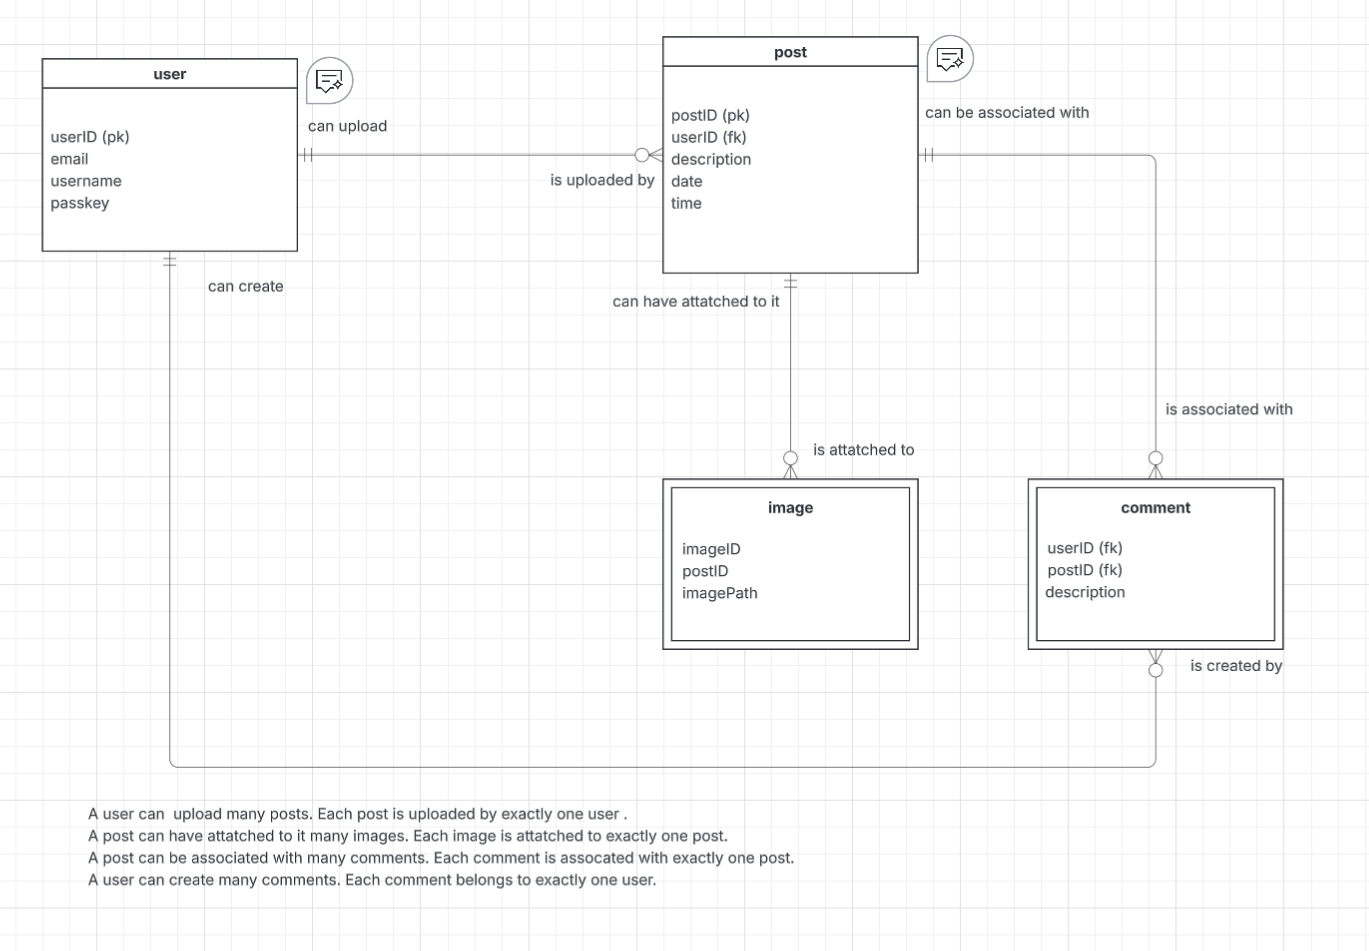
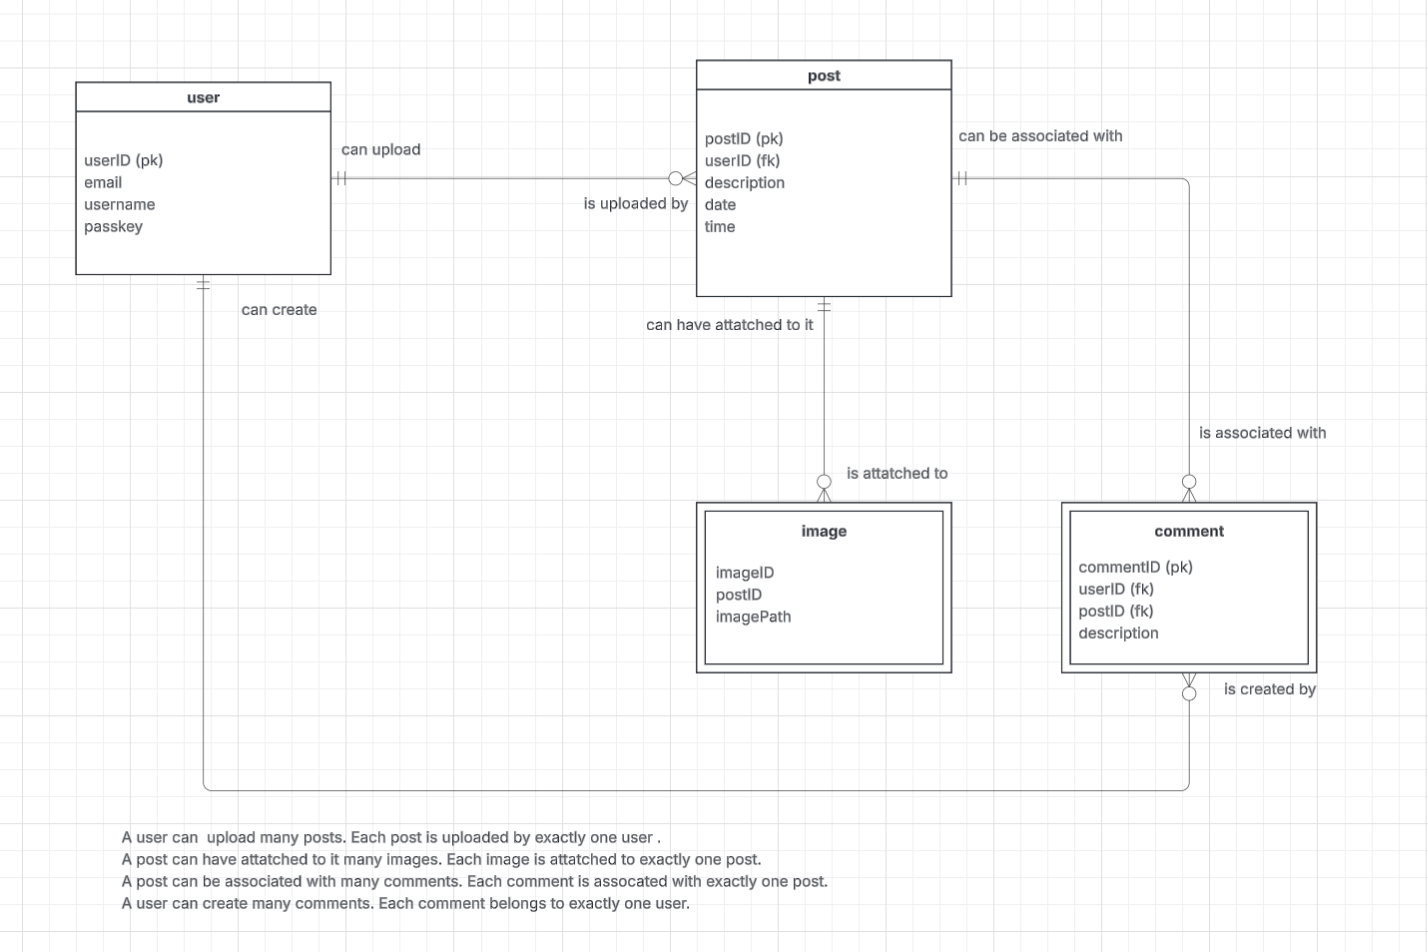
added relations diagram

diff --git a/README.md b/README.md
@@ -5,4 +5,9 @@ Experienced photographers can share their captures and gear they used, and those
 
 A user can post and comment if they have an account set up! They can also search for posts with specific telescopes, accessories, and celestial bodies captured (such as saturn, the moon, etc)
 
+This is the entity relationship diagram (ERD). It shows the structure of the project's database. 
 ![ERD](images/ERD.png)
+
+
+This is the relations diagram. It demonstrates the exact attributes which relate to another table. This diagram is in 3rd normal form. 
+![relations](images/relations.png) 
